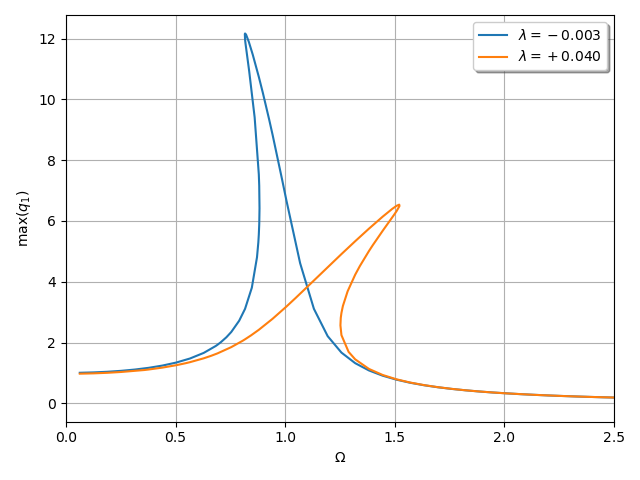
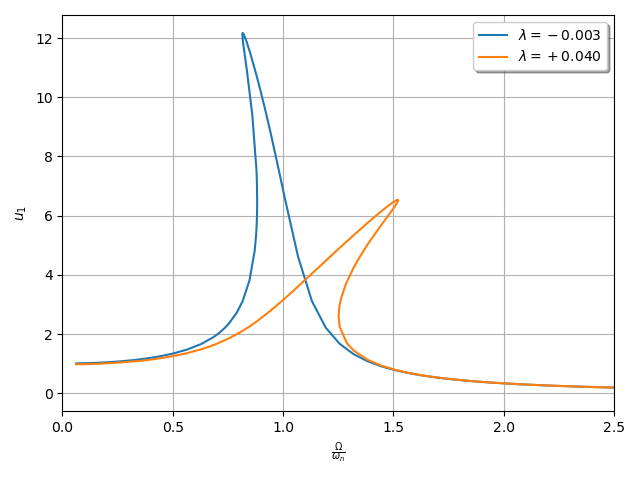
Add files via upload

diff --git a/hbm/examples/013/hickey.py b/hbm/examples/013/hickey.py
@@ -13,8 +13,8 @@ label = [-0.003,0.04]
 for i, csv in enumerate(csvs):
     df = pd.read_csv(csv,delimiter=';')    
     ax.plot(2*np.pi*df['Frequency'],df['H1-N101,u'],label=r'$\lambda=%+.3f$' %label[i])
-ax.set_xlabel(r'$\Omega$')
-ax.set_ylabel(r'$\max(q_1)$')
+ax.set_xlabel(r'$\frac{\Omega}{\omega_n}$')
+ax.set_ylabel(r'$u_1$')
 ax.set_xlim(0.0,2.5)
 ax.set_xticks(np.linspace(0.0,2.5,6))
 ax.grid()
